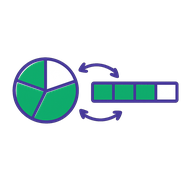
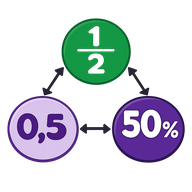
Ge Bråktrappan en egen bild på startsidan
Startsidans kort visar Bråktrappans egen bild, och Bråk, decimal & procent får
en ny bild som visar alla tre former.

diff --git a/index.html b/index.html
@@ -80,7 +80,7 @@
           <span class="landing-card-desc" id="landingRepresentationsDesc">Översätt mellan bråk, decimaltal, procent, ord och bilder.</span>
         </a>
         <a class="landing-card" href="brak.html">
-          <img class="landing-card-img" src="img/pages/representationer.png" alt="">
+          <img class="landing-card-img" src="img/pages/brak.png" alt="">
           <span class="landing-card-title" id="landingBraktrappanTitle">Bråktrappan</span>
           <span class="landing-card-desc" id="landingBraktrappanDesc">Lär dig bråk steg för steg — sex rätt i rad gör ett steg klart.</span>
         </a>
